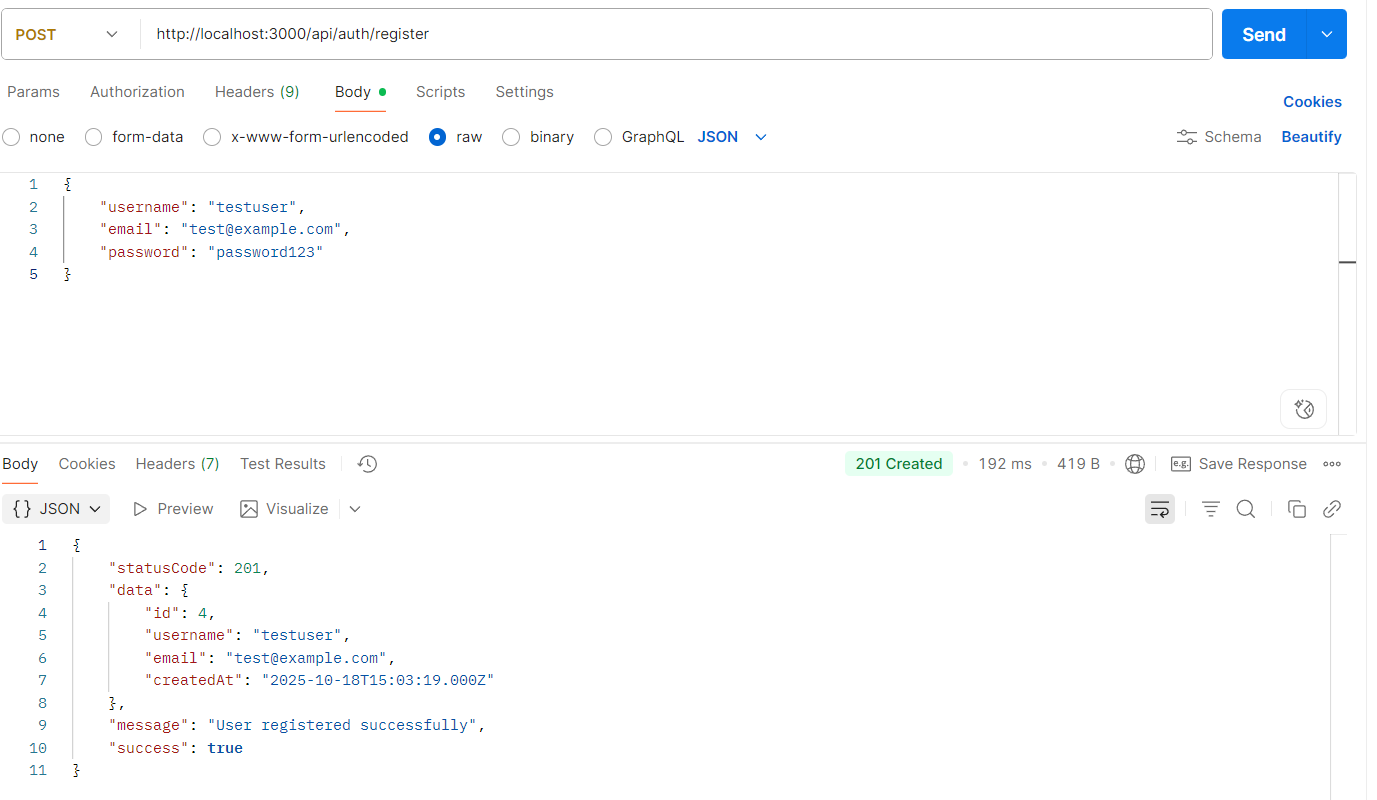
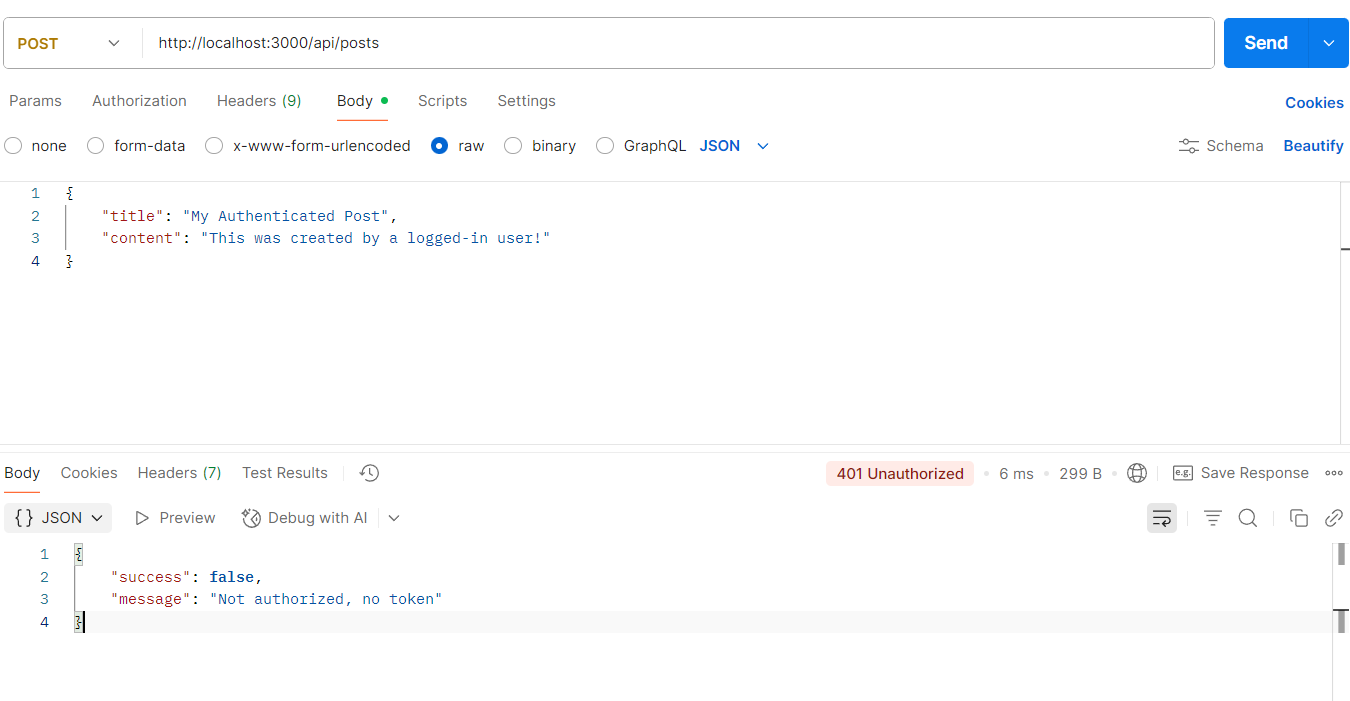
Updated description for README

diff --git a/README.md b/README.md
@@ -1,1 +1,13 @@
 # User Login with JWT and Middleware Laboratory
+- Install jsonwebtoken via npm.
+- Modified .env to add JWT_SECRET, and imported to index.js
+- Imported the JWT_SECRET from the .env to user.services.js and added a functionality of checking the user and its stored hash password.
+- Modified both auth controller and routes for loginuser function.
+- Created a new file for authentication middleware to check for a valid jwt.
+- Added a new protected route.
+- Updated functions from post controller, post service, and validator middleware since the authmiddleware has already attached logged-in user to req.user, making the former functions redundant.
+
+## Testing
+- ![alt text](image-2.png)
+- ![alt text](image.png)
+- ![alt text](image-1.png)
